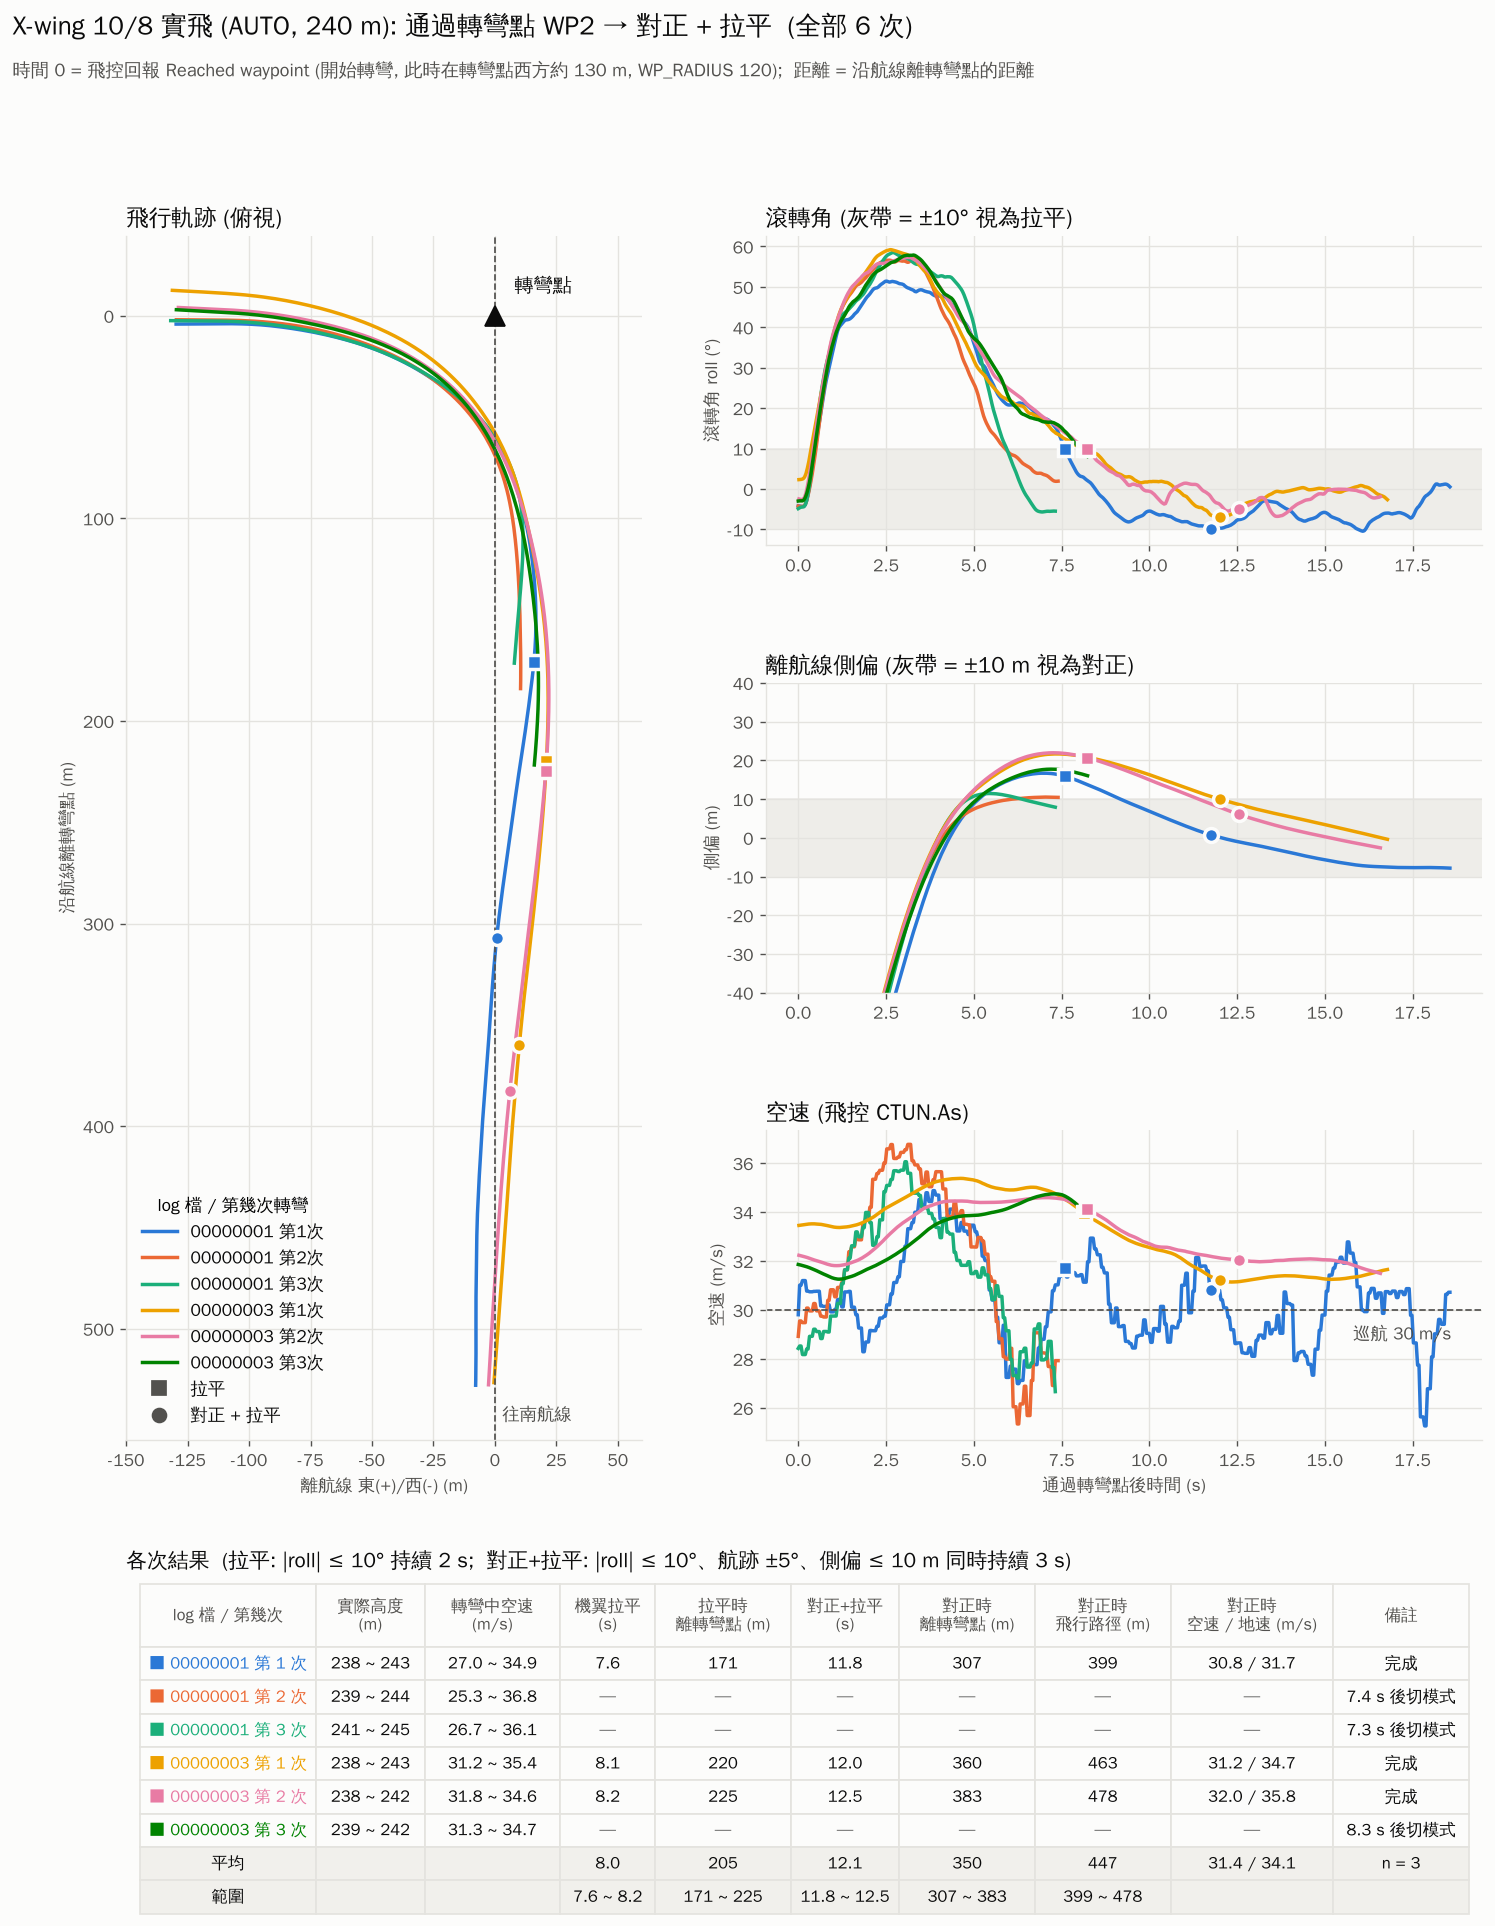
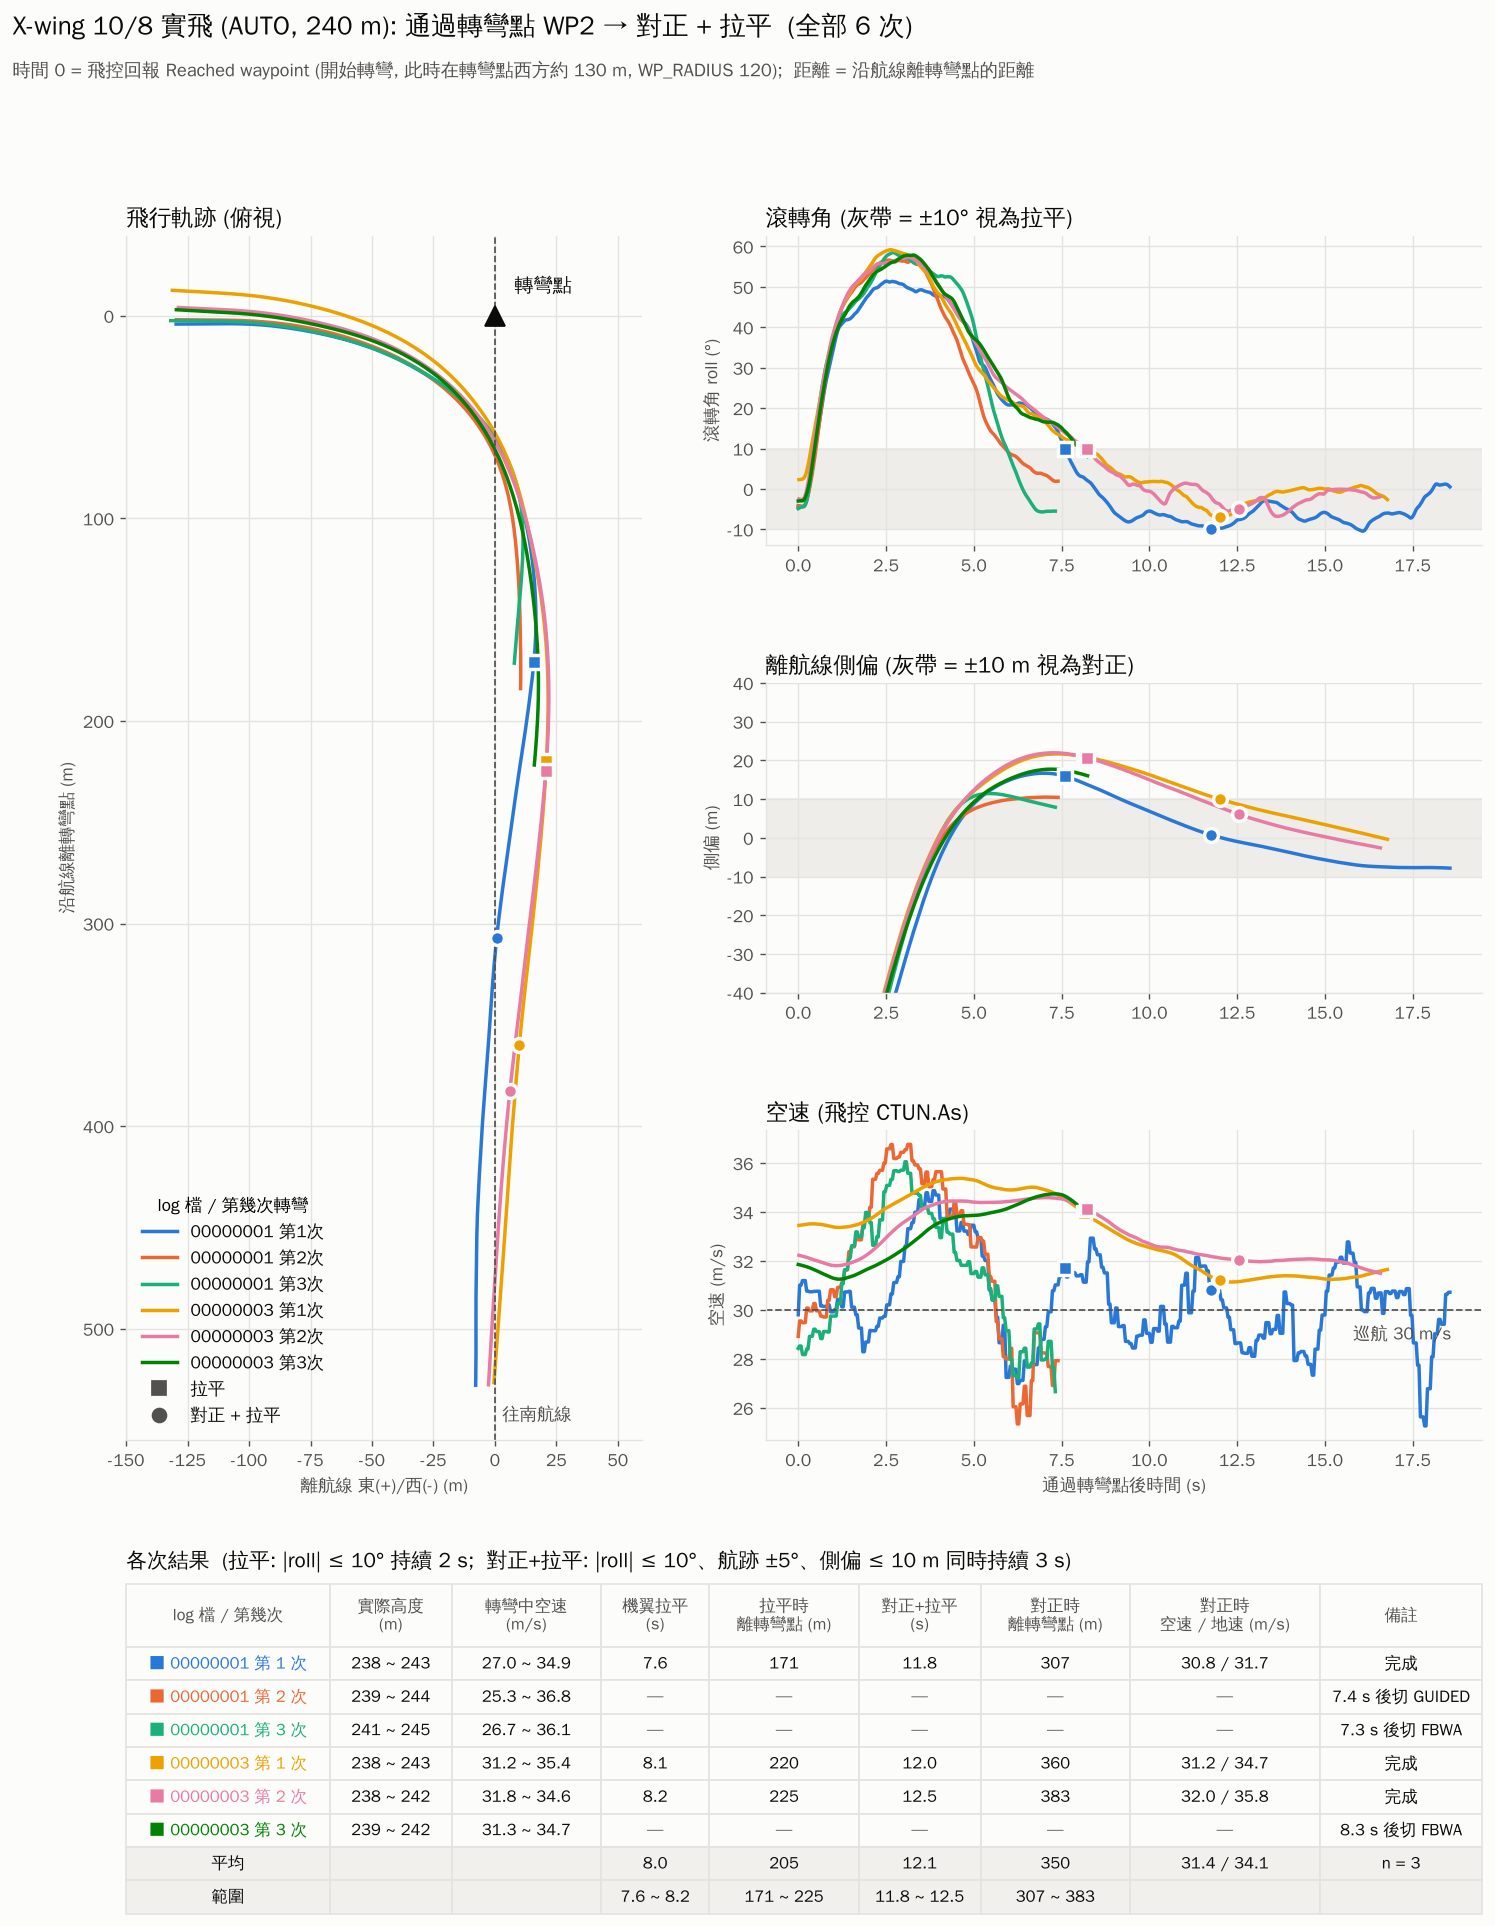
Drop flight-path column; name the mode switched to in 240 m turn chart
Claude-Session: https://claude.ai/code/session_01NWqS5gYEPnF3kkhtvkuu2s

diff --git a/test_records/20261008_xwing_flight/README.md b/test_records/20261008_xwing_flight/README.md
@@ -5,11 +5,14 @@
 
 ## 結果 (實際高度 238~245 m) — 圖 `turn_wp2_240m.png`
 
-| | 轉彎中空速 | 機翼拉平 | 拉平時離轉彎點 | 對正+拉平 | 對正時離轉彎點 | 對正時飛行路徑 | 對正時 空速 / 地速 |
-|---|---|---|---|---|---|---|---|
-| 00000001 第 1 次 | 27.0~34.9 m/s | 7.6 s | 171 m | 11.8 s | 307 m | 399 m | 30.8 / 31.7 m/s |
-| 00000003 第 1 次 | 31.2~35.4 m/s | 8.1 s | 220 m | 12.0 s | 360 m | 463 m | 31.2 / 34.7 m/s |
-| 00000003 第 2 次 | 31.8~34.6 m/s | 8.2 s | 225 m | 12.5 s | 383 m | 478 m | 32.0 / 35.8 m/s |
-| **平均** | | **8.0 s** | **205 m** | **12.1 s** | **350 m** | **447 m** | **31.4 / 34.1 m/s** |
+| | 轉彎中空速 | 機翼拉平 | 拉平時離轉彎點 | 對正+拉平 | 對正時離轉彎點 | 對正時 空速 / 地速 |
+|---|---|---|---|---|---|---|
+| 00000001 第 1 次 | 27.0~34.9 m/s | 7.6 s | 171 m | 11.8 s | 307 m | 30.8 / 31.7 m/s |
+| 00000003 第 1 次 | 31.2~35.4 m/s | 8.1 s | 220 m | 12.0 s | 360 m | 31.2 / 34.7 m/s |
+| 00000003 第 2 次 | 31.8~34.6 m/s | 8.2 s | 225 m | 12.5 s | 383 m | 32.0 / 35.8 m/s |
+| **平均** | | **8.0 s** | **205 m** | **12.1 s** | **350 m** | **31.4 / 34.1 m/s** |
 
-另 3 次 (00000001 第 2、3 次, 00000003 第 3 次) 轉彎後 7~8 s 就切模式, 未轉完。
+另 3 次轉彎後 7~8 s 就切模式, 未轉完:
+- 00000001 第 2 次: 7.4 s 後切 GUIDED → 右轉後定高約 238 m 盤旋, 22 s 後 LOITER, 80 s 後回 AUTO
+- 00000001 第 3 次: 7.3 s 後切 FBWA → 飛手手動俯衝 (pitch 約 -28°, 245 → 83 m, 空速 27 → 47 m/s), 拉起後回 AUTO
+- 00000003 第 3 次: 8.3 s 後切 FBWA → 手動俯衝 (240 → 100 m, 空速 34 → 45 m/s); 29 s 後遙控器油門失控保護 (CIRCLE → RTL), 約 6 s 後恢復, 回 AUTO
